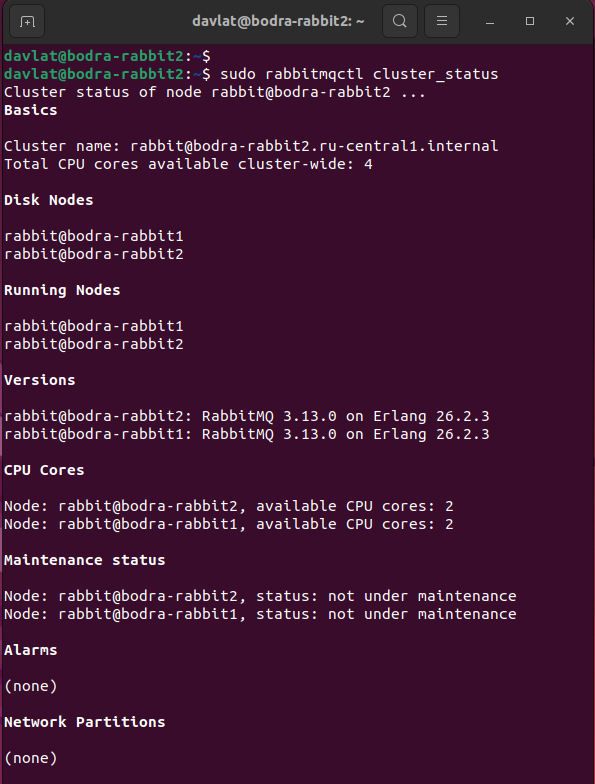
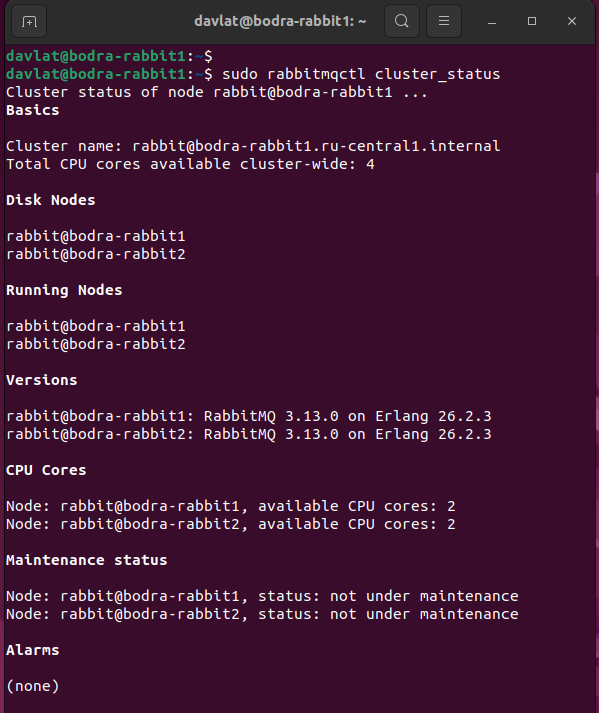
Ex3-Do1

Changed region(s): [[0.0, 0.0, 1.0, 1.0]]

diff --git a/README.md b/README.md
@@ -76,20 +76,22 @@ $ rabbitmqadmin get queue='hello'
 
 ---
 ### Решение 3
-Скриншот из веб-интерфейса с информацией о доступных нодах в кластере и включённой политикой:
+Скриншоты из веб-интерфейса с информацией о доступных нодах в кластере и включённой политикой:
 ![Скриншот 4](img/3_1.png)
-
-Cкриншот вывода команды rabbitmqctl cluster_status с двух нод:
+  
 ![Скриншот 5](img/3_2.png)
-  
-![Скриншот 6](img/3_3.png)
 
-Cкриншот вывода команды rabbitmqadmin get queue='hello' с двух нод:
-![Скриншот 7](img/3_4.png)
+Cкриншоты вывода команды rabbitmqctl cluster_status на каждой ноде:
+![Скриншот 6](img/3_3.png)
   
+![Скриншот 7](img/3_4.png)
+
+Cкриншоты вывода команды rabbitmqadmin get queue='hello' с двух нод:
 ![Скриншот 8](img/3_5.png)
+  
+![Скриншот 9](img/3_6.png)
 
 Cкриншот результата выполнения скрипта consumer.py, при отключении одной из нод:
-![Скриншот 9](img/3_6.png)
+![Скриншот 10](img/3_7.png)
 
 ---
